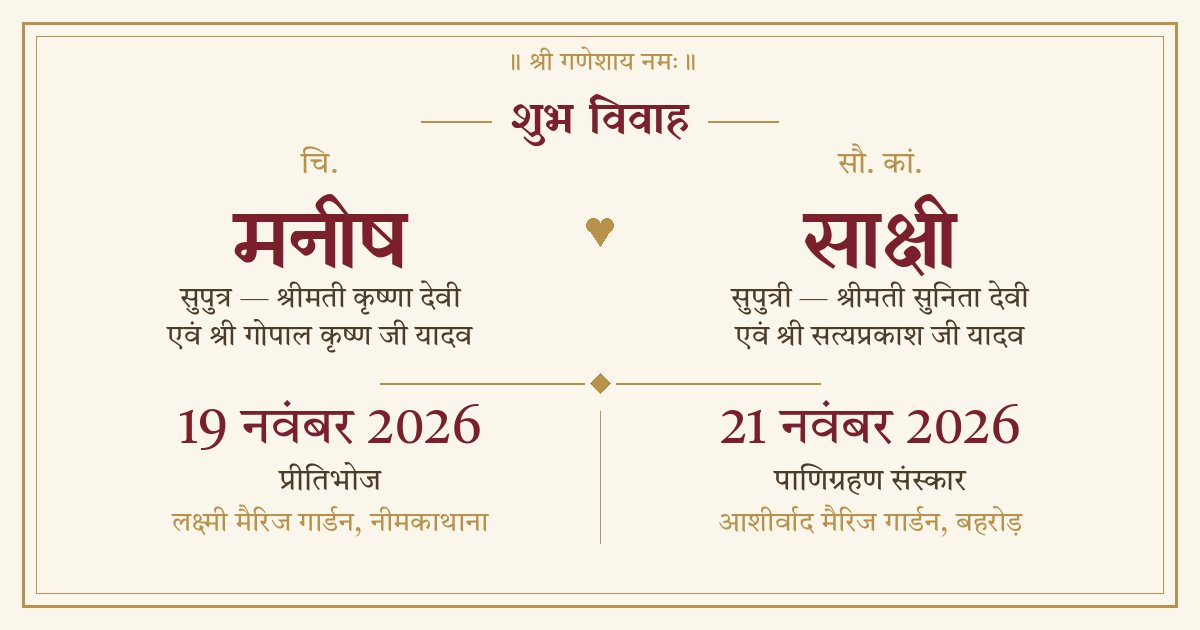
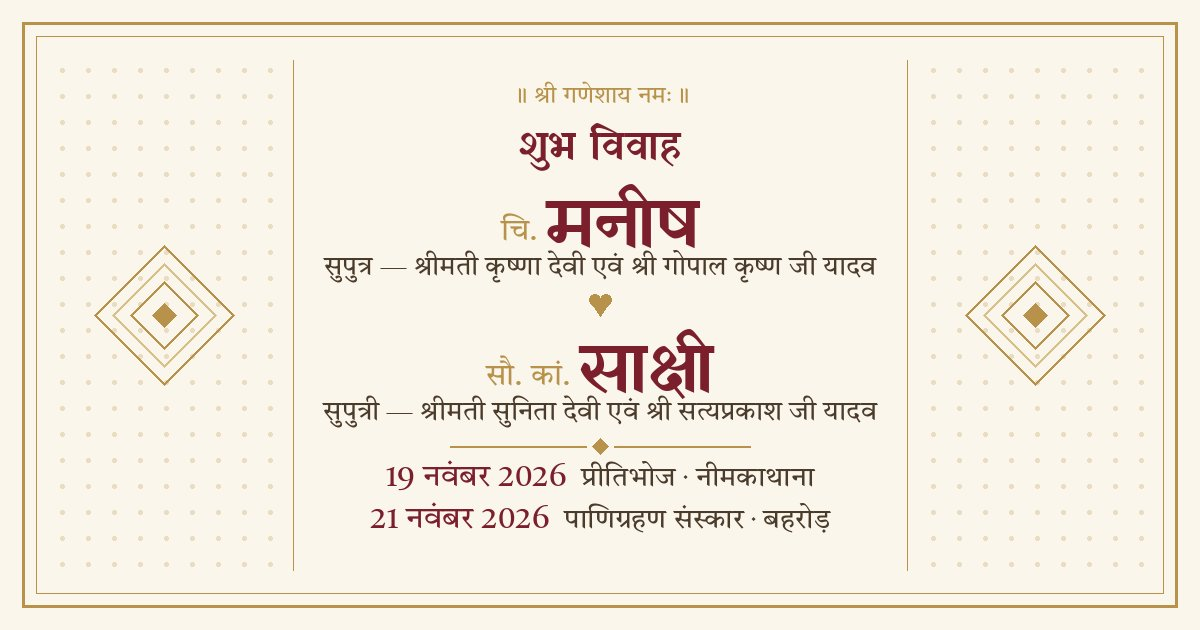
Crop-safe preview with parents; bride page opens on couple photo

diff --git a/sakshi-manish/index.html b/sakshi-manish/index.html
@@ -9,7 +9,7 @@
 <meta property="og:title" content="आयु. साक्षी ❤ चि. मनीष — शुभ विवाह निमंत्रण">
 <meta property="og:description" content="21 नवंबर 2026 · आशीर्वाद मैरिज गार्डन, बहरोड़ · आयु. साक्षी संग चि. मनीष के मंगल विवाह में आपको सपरिवार सादर आमंत्रित करते हैं।">
 <meta property="og:url" content="https://manish-sakshi-wedding.pages.dev/sakshi-manish/">
-<meta property="og:image" content="https://manish-sakshi-wedding.pages.dev/sakshi-manish/og.jpg?v=7635ccc547">
+<meta property="og:image" content="https://manish-sakshi-wedding.pages.dev/sakshi-manish/og.jpg?v=3f709a8b8f">
 <meta property="og:image:width" content="1200">
 <meta property="og:image:height" content="630">
 <meta name="twitter:card" content="summary_large_image">
@@ -1291,6 +1291,8 @@ function renderHeroSection(c){
   // Find hero photo
   var heroPhoto = (c.couple.groom.photo || c.couple.bride.photo);
   if(c.gallery && c.gallery.length && c.gallery[0].src) heroPhoto = c.gallery[0].src;
+  // An explicit hero photo wins (e.g. when the gallery starts with card scans)
+  if(c.design && c.design.heroPhoto) heroPhoto = c.design.heroPhoto;
   if(!heroPhoto) heroPhoto = 'https://images.unsplash.com/photo-1519741497674-611481863552?auto=format&fit=crop&w=700&q=80';
 
   // Common guest banner markup

diff --git a/index.html b/index.html
@@ -9,7 +9,7 @@
 <meta property="og:title" content="मनीष ❤ साक्षी — प्रीतिभोज (19 नवं) एवं शुभ विवाह (21 नवं 2026)">
 <meta property="og:description" content="🍽 प्रीतिभोज: 19 नवंबर 2026 (नीमकाथाना) · 💍 पाणिग्रहण संस्कार: 21 नवंबर (बहरोड़) · आपको सपरिवार सादर आमंत्रित करते हैं।">
 <meta property="og:url" content="https://manish-sakshi-wedding.pages.dev/">
-<meta property="og:image" content="https://manish-sakshi-wedding.pages.dev/og.jpg?v=42c8a1d54f">
+<meta property="og:image" content="https://manish-sakshi-wedding.pages.dev/og.jpg?v=4b5877847e">
 <meta property="og:image:width" content="1200">
 <meta property="og:image:height" content="630">
 <meta name="twitter:card" content="summary_large_image">
@@ -1291,6 +1291,8 @@ function renderHeroSection(c){
   // Find hero photo
   var heroPhoto = (c.couple.groom.photo || c.couple.bride.photo);
   if(c.gallery && c.gallery.length && c.gallery[0].src) heroPhoto = c.gallery[0].src;
+  // An explicit hero photo wins (e.g. when the gallery starts with card scans)
+  if(c.design && c.design.heroPhoto) heroPhoto = c.design.heroPhoto;
   if(!heroPhoto) heroPhoto = 'https://images.unsplash.com/photo-1519741497674-611481863552?auto=format&fit=crop&w=700&q=80';
 
   // Common guest banner markup
